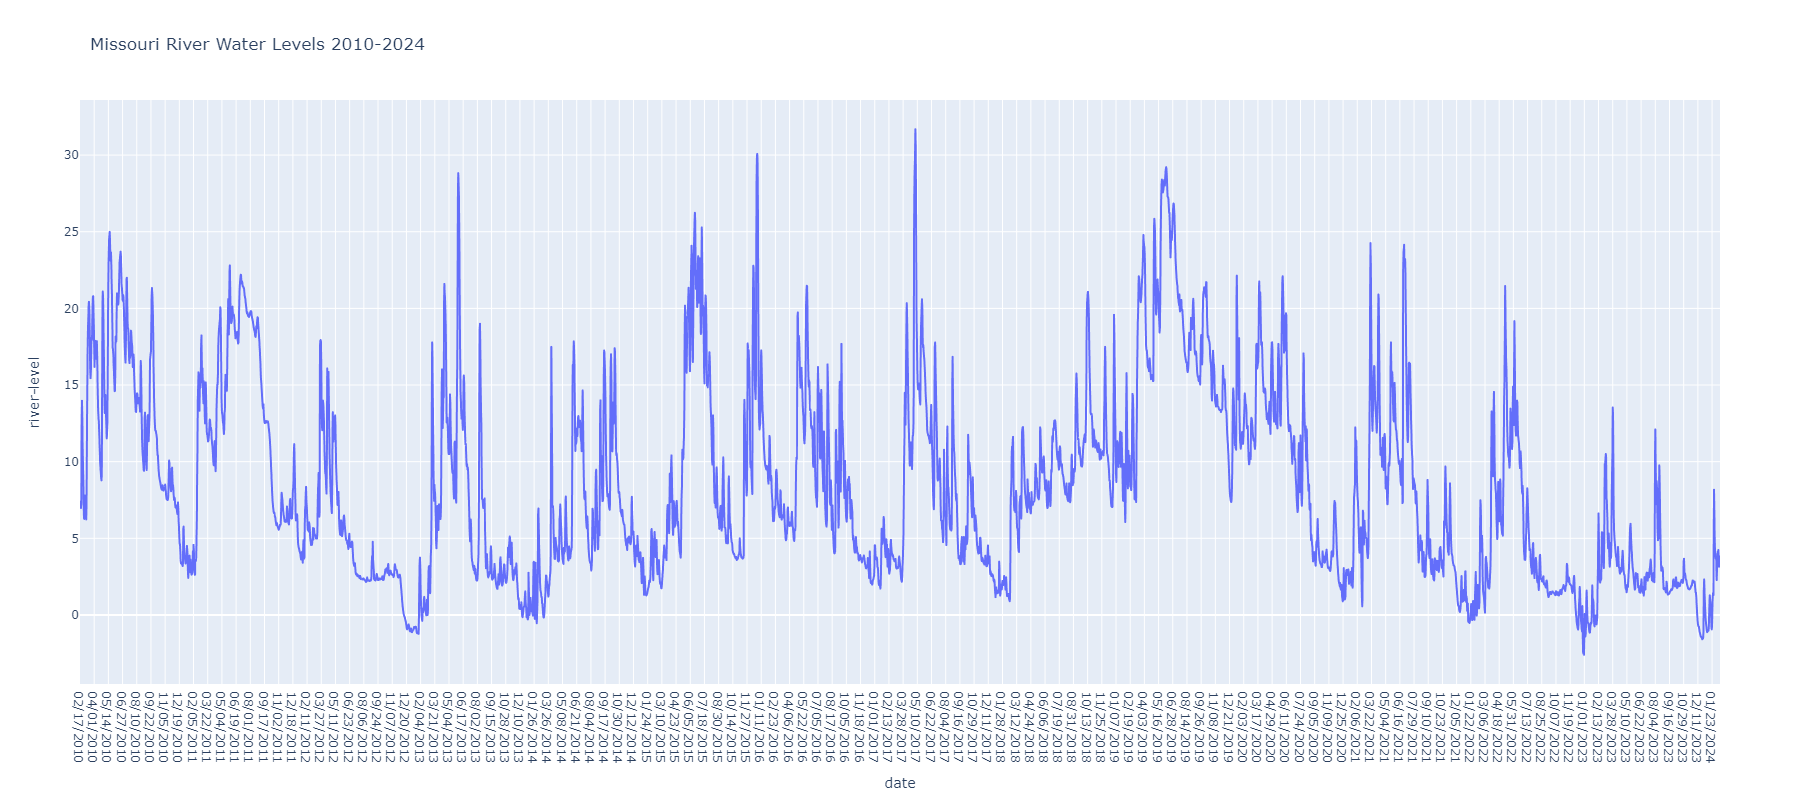
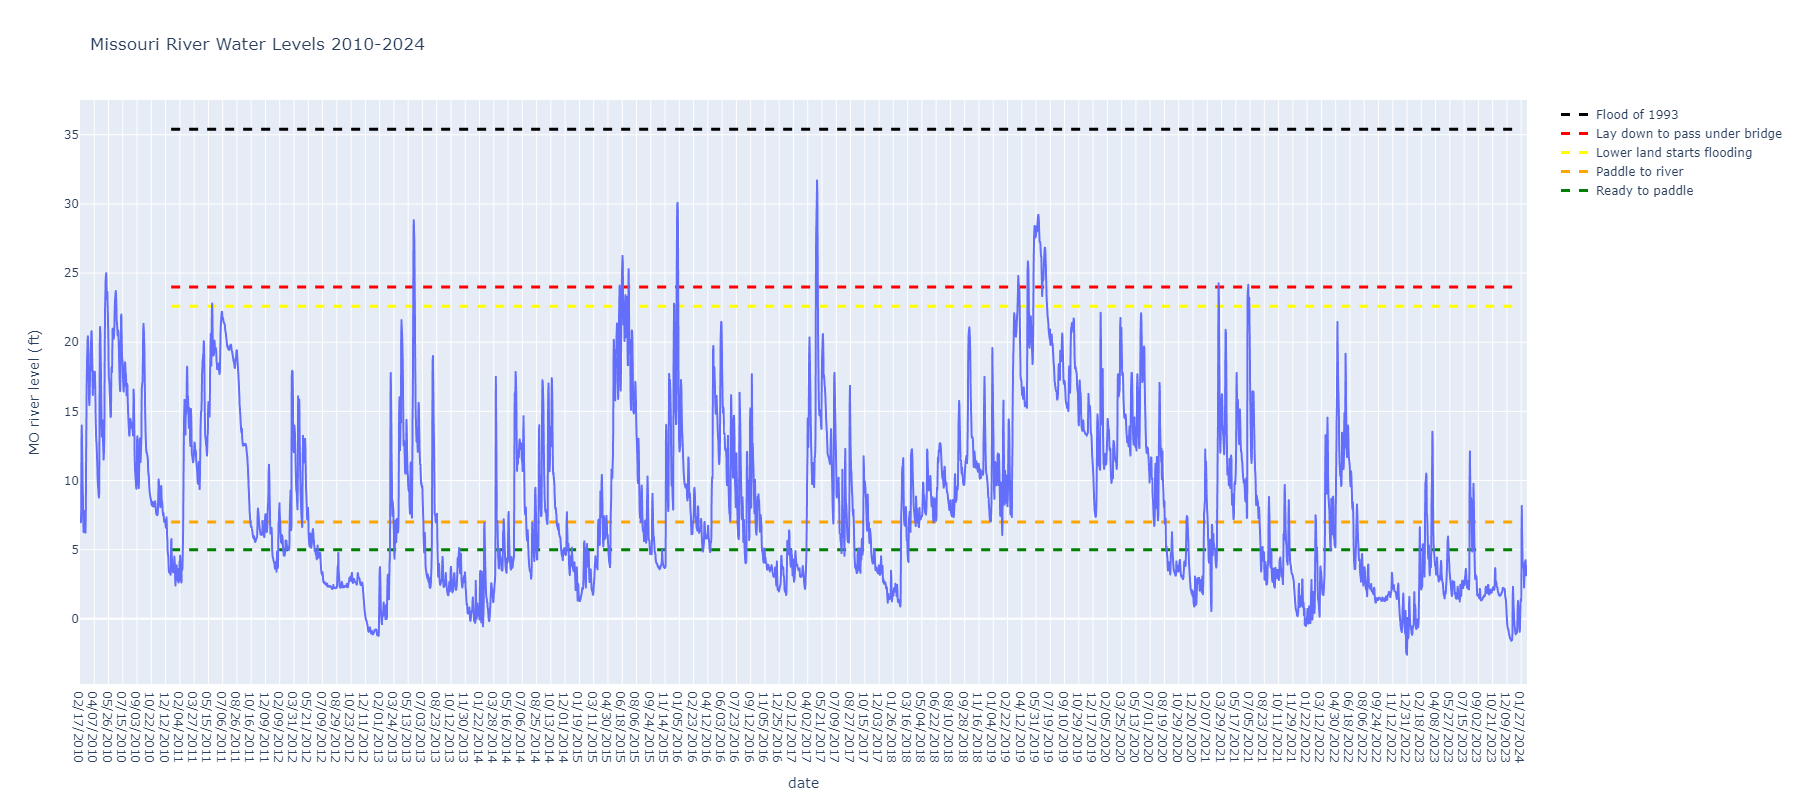
replace river levels graph

diff --git a/src/python/river-data.py b/src/python/river-data.py
@@ -1,9 +1,48 @@
 import pandas as pd
 import plotly.express as px
+import plotly.graph_objects as go
 
-df = pd.read_csv(r'..\..\graph-data\mo-river-data-2010-2024.csv')
+df = pd.read_csv(r'..\..\graph-data\river-data-2010-2024.csv')
 
-fig = px.line(df, x = 'date', y = 'river-level', title='Missouri River Water Levels 2010-2024')
+dmax = df[['date']].values.max()
+dmin = df[['date']].values.min()
+
+fig = px.line(df, 
+              x = 'date', 
+              y = 'river-level', 
+              labels={"river-level": "MO river level (ft)"},
+              title='Missouri River Water Levels 2010-2024')
+
+fig.add_trace(go.Scatter(y=[35.4,35.4], 
+                         x=[dmin,dmax],
+                         mode='lines', 
+                         line=dict(color='black', width=3, dash='dash'),
+                         name='Flood of 1993'))
+
+fig.add_trace(go.Scatter(y=[24,24], 
+                         x=[dmin,dmax],
+                         mode='lines', 
+                         line=dict(color='red', width=3, dash='dash'),
+                         name='Lay down to pass under bridge'))
+
+fig.add_trace(go.Scatter(y=[22.6,22.6], 
+                         x=[dmin,dmax],
+                         mode='lines', 
+                         line=dict(color='yellow', width=3, dash='dash'),
+                         name='Lower land starts flooding'))
+
+fig.add_trace(go.Scatter(y=[7,7], 
+                         x=[dmin,dmax],
+                         mode='lines', 
+                         line=dict(color='orange', width=3, dash='dash'),
+                         name='Paddle to river'))
+
+fig.add_trace(go.Scatter(y=[5,5], 
+                         x=[dmin,dmax],
+                         mode='lines', 
+                         line=dict(color='green', width=3, dash='dash'),
+                         name='Ready to paddle'))
+
 #fig.show()
 
 fig.write_image(r'..\..\assets\img\river\river-levels.png', width=1800, height=800, scale=1)

diff --git a/content/08-recreation.md b/content/08-recreation.md
@@ -82,7 +82,7 @@ The National Weather Service (NWS) has a river water level and flow [monitoring 
 
 To give you an idea of how the creek water levels change over a typical year and across years, the following graph shows river water levels at Washington for the past 13 years along with key river water levels that enable certain activies and distances along the creek.
 
-{{< image src="img/creek/river-levels.png" wrapper="col mx-auto" caption="Missouri River levels and creek paddling" class="rounded" >}}
+{{< image src="img/river/river-levels.png" wrapper="col mx-auto" caption="Missouri River levels and creek paddling" class="rounded" >}}
 
 ## Hiking
 
